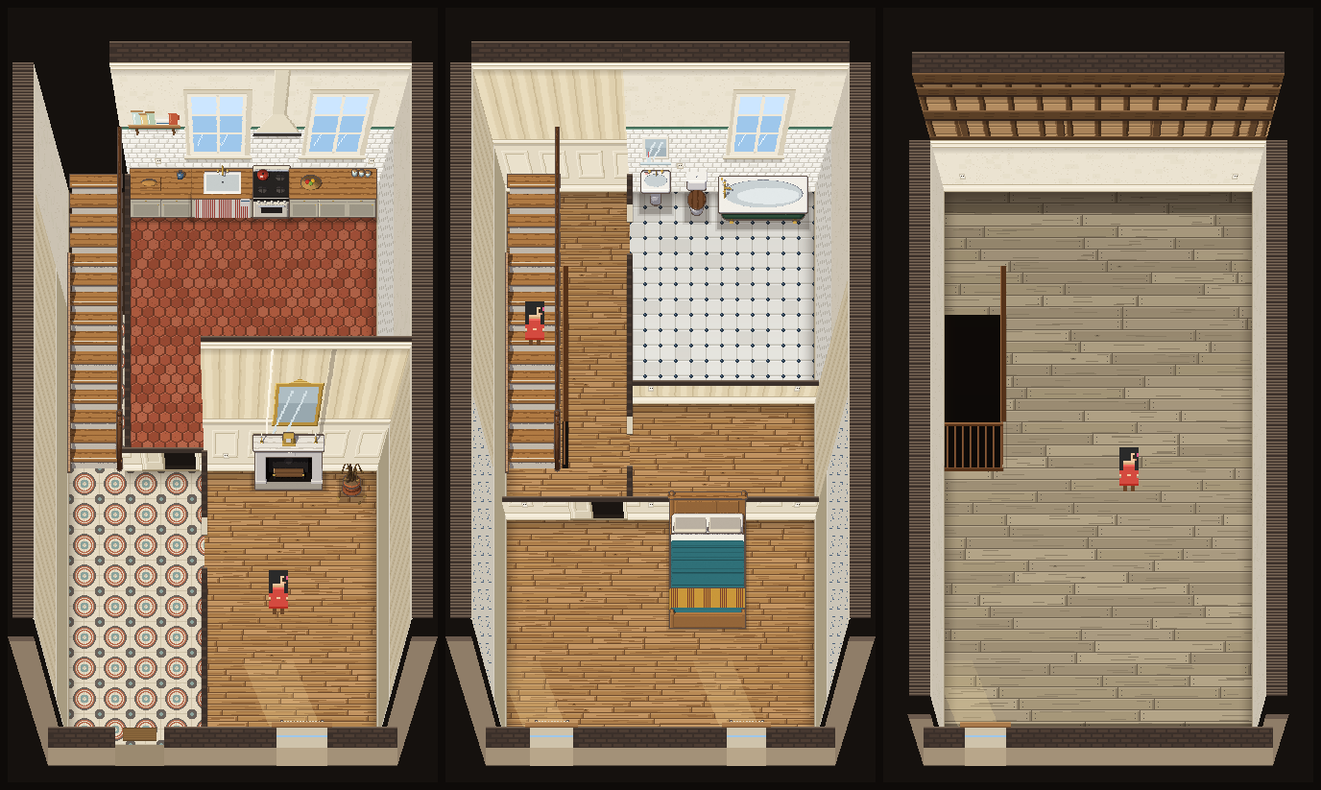
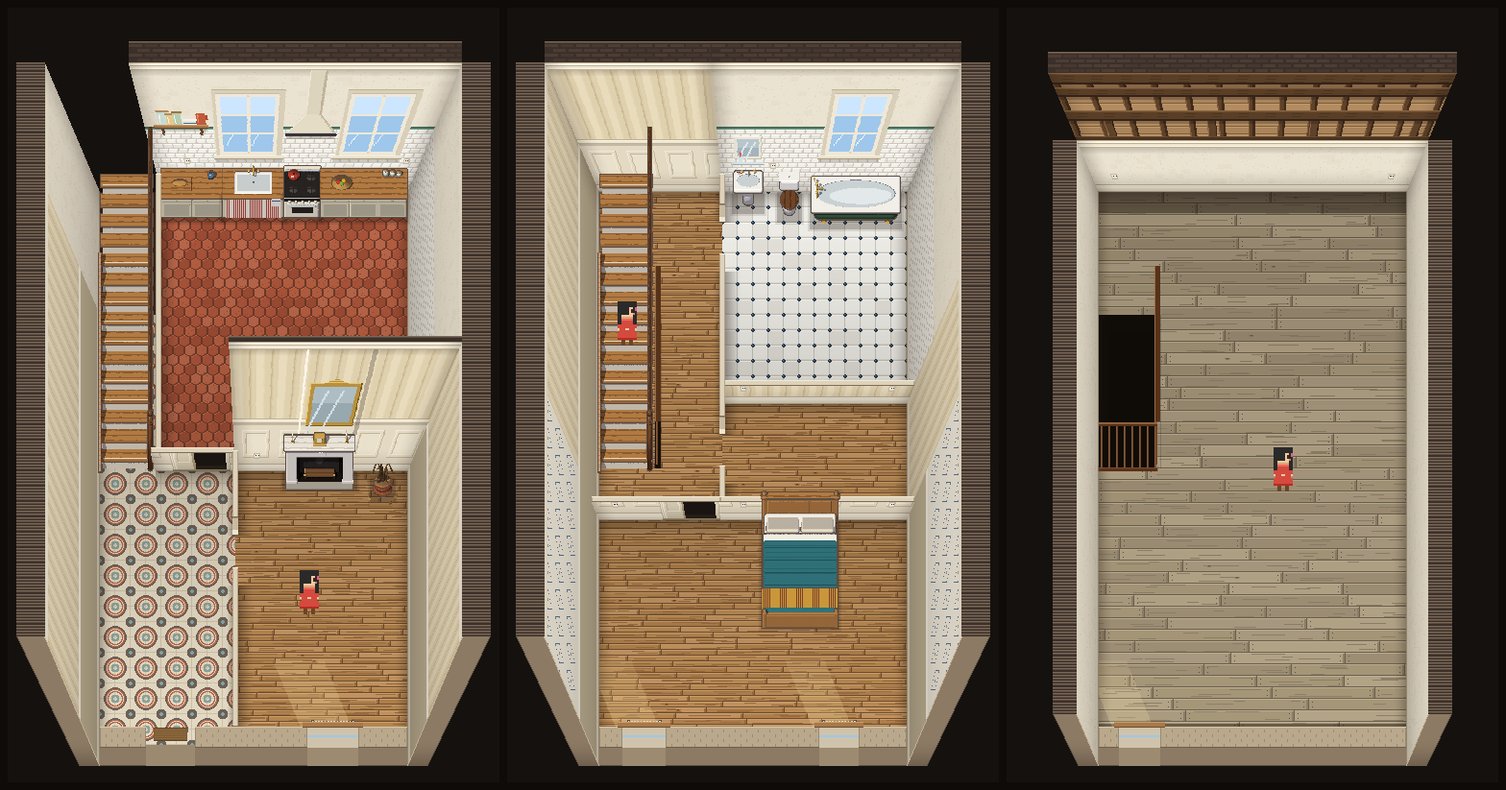
1 1 1

diff --git a/components/ferme/maisonArt.js b/components/ferme/maisonArt.js
@@ -450,6 +450,30 @@ export function paintWallTop(ctx, x, y, w, h) {
   }
 }
 
+/* ╔════════════════════════════════════════════════════════════════════════
+   ║ 2026-10-18 — « LES CLOISONS EN VOLUME » : L'ARASE D'UN MUR COUPÉ EST ÉCLAIRÉE.
+   ╚════════════════════════════════════════════════════════════════════════
+   Vu en jeu : une cloison coupée à 35 cm se lisait comme un trait sombre sur le
+   sol — son arase avait la couleur de celle des murs pleins (`paintWallTop`, un
+   brun presque noir), celle du vide autour de la maison et des portes ouvertes.
+   Or c'est un DESSUS, à 35 cm du sol de la pièce : dans la lumière des meubles
+   (`tools/blender/studio.py`, quatre paliers), le dessus est le plus clair (1),
+   la face vient après (0,88). Une arase claire et cernée, une tranche un ton plus
+   bas : le mur a une épaisseur et une hauteur. L'arase des murs PLEINS reste
+   sombre — elle touche le plafond, c'est la coupe sous lui, hors du jour.
+   `ext` : la pierre de la façade (même règle, plus grise). */
+export function paintCutTop(ctx, x, y, w, h, ext) {
+  const P = ext ? ["#b9a88c", "#d6c8ab", "#6e604e", "#9a8a72"] : ["#ded2bb", "#f1e9d6", "#7d6c58", "#b3a38b"];
+  rect(ctx, x, y, w, h, P[0]);
+  if (ext && h > 6) for (let k = 3; k < h - 2; k += 5) {
+    const dec = (Math.floor(k / 5) % 2) ? 6 : 0;
+    for (let i = x + dec; i < x + w - 1; i += 12) rect(ctx, i, y + k, 1, 3, P[3]);
+  }
+  if (w > 2) { rect(ctx, x, y, 1, h, P[3]); rect(ctx, x + w - 1, y, 1, h, P[3]); }
+  rect(ctx, x, y, w, 1, P[1]);
+  if (h > 2) rect(ctx, x, y + h - 1, w, 1, P[2]);
+}
+
 /* LA FLAQUE DE SOLEIL : la lumière d'une fenêtre de façade (au sud) posée sur
    le sol de la pièce, déportée vers l'est l'après-midi — un parallélogramme
    chaud, peint rangée par rangée. `force` 0 à 1 (l'heure la règlera). */
@@ -664,7 +688,11 @@ export function paintConduit(ctx, x0, x1, yFoot, hPx, tablette = 1.08, bas = 1.2
 // ─── la cuisson d'un niveau ──────────────────────────────────────────────
 /* Le repère des images cuites : le coin (HOME_FX0, HOME_FY0) du plan, en cases,
    est le pixel (0, 0). Assez de marge au nord pour les faces des murs du fond. */
-export const HOME_FX0 = -1.0, HOME_FY0 = -3.0;   // −1 en x : la place des murs latéraux évasés
+/* 2026-10-18 — −1 → −1,5 en x avec l'évasement à 0,17 (`HOME_FLARE`) : l'arase du mur latéral, à son bord extérieur, tombe à
+   1,36 case du nu intérieur (0,17 × 2,84 cases du centre × 2,11 cases de mur + 0,34 d'épaisseur) ; à −1 elle sortait de
+   l'image cuite (un canevas découpe en silence, noyau §4). `maison.HOME_OX` recule d'autant (l'origine reste sur une case
+   entière du monde, la maison tient dans ses 8 cases : `verify-maison` §1). */
+export const HOME_FX0 = -1.5, HOME_FY0 = -3.0;   // −1,5 en x : la place des murs latéraux évasés
 /* ╔════════════════════════════════════════════════════════════════════════
    ║ 2026-10-16 (soir) — LA PROFONDEUR : LES MURS ÉVASÉS (« une vraie idée de
    ║ profondeur, perspective plus lisible entre les murs et le sol » — Guillaume).
@@ -677,11 +705,18 @@ export const HOME_FX0 = -1.0, HOME_FY0 = -3.0;   // −1 en x : la place des mur
    le haut pour les rejoindre : une boîte ouverte sur l'avant. ⚠ ÉVASÉS, ILS
    TOMBENT HORS DU SOL À L'ÉCRAN : ils ne cachent jamais ni meuble ni personne.
    Le sol, la collision, les meubles et les personnages ne bougent pas. */
-export const HOME_FLARE = 0.11;
+/* 2026-10-18 — 0,11 → 0,17, choisi par Guillaume sur maquette en jeu (0,11 / 0,17 / 0,24 côte à côte, meubles contre les
+   murs) : la pièce se creuse sans l'effet couloir de 0,24. ⚠ Les meubles ne s'évasent pas : un meuble haut contre un mur de
+   côté s'en écarte un peu vers le haut (≈ 9 px à 1 m) — vu, accepté avec la valeur. */
+export const HOME_FLARE = 0.17;
 const flarePx = (lx, zPx, xc) => HOME_FLARE * (lx - xc) * zPx;
 export const homePx = (lx, ly) => [Math.round((lx - HOME_FX0) * MPX), Math.round((ly - HOME_FY0) * MPX)];
 export const HOME_VOID = "#15110e";
 export const HOME_CUT = pxOfM(0.35);          // la coupe des murs bas : 35 cm (19 px ; 10 à 32 px par case)
+/* 2026-10-18 — LA PIERRE DE LA FAÇADE VUE DE FACE (sa tranche coupée, le pilier d'angle) : un ton sous l'arase éclairée
+   (`paintCutTop`) — le dessus clair, la face plus sombre, c'est ce qui fait lire une épaisseur. À #a39178, à peine plus
+   sombre que l'arase, la façade coupée se lisait comme une bande plate (vu au banc, même jour). */
+const PIERRE_FACE = "#8c7a64";
 
 const SOLS = {
   parquet: paintParquet, ciment: paintCiment, tomettes: paintTomettes, carreaux: paintCabochons,
@@ -723,15 +758,38 @@ export function bakeHomeFloor(mk, plan, L, H) {
     const [x0, y0] = homePx(0, 0), [x1, y1] = homePx(plan.w, plan.d);
     const NL = pxOfM(0.26);
     for (let k = 0; k < NL; k++) { const al = 0.26 * (1 - k / NL) ** 1.6; ombre(x0 + k, y0, 1, y1 - y0, al); ombre(x1 - 1 - k, y0, 1, y1 - y0, al); }
-    // le fond de la pièce s'assombrit un peu : la lumière vient de la façade
-    for (let k = 0; k < y1 - y0; k++) { const t = 1 - k / (y1 - y0); if (t > 0.45) ombre(x0, y0 + k, x1 - x0, 1, 0.10 * (t - 0.45) / 0.55); }
+  }
+  /* 2026-10-18 — « LA LUMIÈRE DE PROFONDEUR », PIÈCE PAR PIÈCE (remplace un dégradé unique sur toute la maison, « la
+     lumière vient de la façade » — faux pour la cuisine, dont les fenêtres sont au fond) : chaque pièce s'assombrit en
+     s'éloignant du côté par où le jour entre — la façade (au sud : ses fenêtres, sa porte, et le côté ouvert de la
+     coupe) si elle la touche, ses fenêtres du fond (au nord) si elle en a. Les deux : le milieu, un peu. Aucun : un
+     voile égal. Jusqu'à 0,16 au plus loin. */
+  {
+    const faces = H.homeFaces(plan, L);
+    for (const p of lv.pieces) {
+      const bx0 = Math.min(...p.rects.map((r) => r[1])), bx1 = Math.max(...p.rects.map((r) => r[3]));
+      const sud = bx1 >= plan.d - 0.01;
+      const nord = faces.some((f) => f.room === p.id && (f.fenetres || []).length > 0);
+      const al = (t) => sud && nord ? 0.08 * 4 * t * (1 - t) : sud ? 0.16 * (1 - t) ** 1.4 : nord ? 0.16 * t ** 1.4 : 0.08;
+      for (const [rx0, ry0, rx1, ry1] of p.rects) {
+        const [a, b] = homePx(rx0, ry0), [cc, d] = homePx(rx1, ry1);
+        const [, B0] = homePx(0, bx0), [, B1] = homePx(0, bx1);
+        for (let yy = b; yy < d; yy += 2) ombre(a, yy, cc - a, Math.min(2, d - yy), al((yy - B0) / Math.max(1, B1 - B0)));
+      }
+    }
   }
   g.globalAlpha = 1;
   paintSideFaces(g, plan, L, H);
   for (const lw of H.homeLows(plan, L, null)) {
     if (lw.kind === "facade") continue;
     const [a, b] = homePx(lw.rect[0], lw.rect[1]), [cc, d] = homePx(lw.rect[2], lw.rect[3]);
-    g.globalAlpha = 0.20; rect(g, a - 1, b, 1, d - b, "#20160f"); rect(g, cc, b, 1, d - b, "#20160f");
+    if (lw.kind !== "mur") { g.globalAlpha = 0.20; rect(g, a - 1, b, 1, d - b, "#20160f"); rect(g, cc, b, 1, d - b, "#20160f"); continue; }
+    /* 2026-10-18 — « les cloisons en volume » : un mur coupé à 35 cm assombrit le sol de chaque côté ; c'est ce qui le
+       pose debout sur le sol au lieu d'un trait. Plus long à l'EST (30 cm) qu'à l'ouest (12 cm) : la lumière des meubles
+       vient de la gauche (`studio.py`, SUN_DIR), l'ombre portée d'un muret tombe à sa droite. */
+    const NW = pxOfM(0.12), NE = pxOfM(0.30);
+    for (let k = 0; k < NW; k++) ombre(a - 1 - k, b, 1, d - b, 0.24 * (1 - k / NW) ** 1.6);
+    for (let k = 0; k < NE; k++) ombre(cc + k, b, 1, d - b, 0.36 * (1 - k / NE) ** 1.4);
   }
   g.globalAlpha = 1;
   return c;
@@ -764,6 +822,20 @@ export function bakeHomeFace(mk, plan, L, f) {
     if (pb - pa > pxOfM(0.2)) glass.push(paintWallWindow(g, pa, Hh, pb - pa, piece.fenetre && piece.fenetre.allege, piece.fenetre && piece.fenetre.haut));
   }
   paintWallDetails(g, plan, L, f, Hh, wallPx);
+  /* 2026-10-18 — « LA LUMIÈRE DE PROFONDEUR » : le pied du mur s'assombrit (0,22 contre la plinthe, rien à 45 cm), et
+     ses ANGLES aussi (0,20 sur 35 cm, `f.coinW`/`f.coinE` de `homeFaces`) — l'ombre qu'une pièce garde dans ses coins,
+     qui dit où le mur du fond rencontre les murs de côté. Le verre des fenêtres se peint par-dessus, à chaque image. */
+  {
+    const NB = pxOfM(0.45), NA = pxOfM(0.35);
+    g.fillStyle = "#20160f";
+    for (let k = 0; k < NB; k++) { g.globalAlpha = 0.22 * (1 - k / NB) ** 1.5; g.fillRect(0, Hh - 1 - k, W, 1); }
+    for (let k = 0; k < NA; k++) {
+      g.globalAlpha = 0.20 * (1 - k / NA) ** 1.5;
+      if (f.coinW) g.fillRect(k, capPx, 1, Hh - capPx);
+      if (f.coinE) g.fillRect(W - 1 - k, capPx, 1, Hh - capPx);
+    }
+    g.globalAlpha = 1;
+  }
   paintWallTop(g, 0, 0, W, capPx);
   /* 2026-10-17 — LA FACE ÉVASÉE, CUITE UNE FOIS. Une face pleine se dessinait rangée par
      rangée à chaque image (l'évasement, `HOME_FLARE`) : à 64 px par case, ~150 `drawImage`
@@ -819,8 +891,11 @@ function paintWallDetails(g, plan, L, f, Hh, wallPx) {
 export function drawLowWall(ctx, x0, y0, x1, y1, ext) {
   const [a, b] = homePx(x0, y0), [c, d] = homePx(x1, y1);
   const w = Math.max(1, c - a);
-  paintWallTop(ctx, a, b - HOME_CUT, w, d - b);
-  rect(ctx, a, d - HOME_CUT, w, HOME_CUT, ext ? "#8f7d68" : "#d9cfb9");
+  // 2026-10-18 : l'arase claire (`paintCutTop`), la tranche un ton plus bas, sa plinthe, et un trait d'ombre à son pied.
+  paintCutTop(ctx, a, b - HOME_CUT, w, d - b, ext);
+  rect(ctx, a, d - HOME_CUT, w, HOME_CUT, ext ? PIERRE_FACE : "#c8bba2");
+  rect(ctx, a, d - HOME_CUT, w, 1, ext ? "#8a7a64" : "#9c8e77");
+  rect(ctx, a, d - pxOfM(0.12), w, pxOfM(0.12), PLINTHE.fond);
   rect(ctx, a, d - 1, w, 1, "#5e5244");
 }
 /* UN GARDE-CORPS à claire-voie (90 cm) : une main courante de noyer posée sur
@@ -853,19 +928,22 @@ export function drawFacadeCut(ctx, plan, lw, ciel) {
   const seg = (a, b) => {
     const [pa, pb] = homePx(a, y0), [pc, pd] = homePx(b, y1);
     if (pc - pa <= 0) return;
-    paintWallTop(ctx, pa, pb - HOME_CUT, pc - pa, pd - pb);
-    rect(ctx, pa, pd - HOME_CUT, pc - pa, HOME_CUT, "#a39178");
+    paintCutTop(ctx, pa, pb - HOME_CUT, pc - pa, pd - pb, true);   // 2026-10-18 : l'arase de pierre éclairée
+    rect(ctx, pa, pd - HOME_CUT, pc - pa, HOME_CUT, PIERRE_FACE);
     rect(ctx, pa, pd - 1, pc - pa, 1, "#5e5244");
   };
+  /* ⚠ 2026-10-18 — la coupe s'arrête aux NUS INTÉRIEURS des murs latéraux : leurs blocs d'angle (de −EP_EXT à 0, de w à
+     w + EP_EXT) appartiennent aux murs DEBOUT ; coupée à 35 cm par-dessus, la façade mangeait le pied du pilier d'angle. */
+  cur = Math.max(x0, 0);
   for (const [a, b] of trous) { seg(cur, a); cur = b; }
-  seg(cur, x1);
+  seg(cur, Math.min(x1, plan.w));
   for (const [a, b] of lw.fenetres) {
     const [pa, pb] = homePx(a, y0), [pc, pd] = homePx(b, y1);
     rect(ctx, pa, pb - HOME_CUT, pc - pa, pd - pb, "#cfc3ab");
     rect(ctx, pa, pb - HOME_CUT, pc - pa, 1, "#e9e1cf");
     const c = (k, s) => Math.round(255 * Math.min(1, ciel[k] * s));
     rect(ctx, pa, pb - HOME_CUT + 9, pc - pa, 2, `rgb(${c(0, 0.62)},${c(1, 0.78)},${c(2, 0.92)})`);
-    rect(ctx, pa, pd - HOME_CUT, pc - pa, HOME_CUT, "#b8a68a");
+    rect(ctx, pa, pd - HOME_CUT, pc - pa, HOME_CUT, "#9c8a71");
     // 2026-10-17 — l'APPUI côté pièce : une tablette de chêne ciré qui déborde du mur
     rect(ctx, pa - 5, pb - HOME_CUT - 5, pc - pa + 10, 6, "#a8794a");
     rect(ctx, pa - 5, pb - HOME_CUT - 5, pc - pa + 10, 1, "#c99c68");
@@ -972,7 +1050,12 @@ export function homeDrawItems(plan, L, o) {
       }
       if (top > 0) {
         const a = px + Math.round(flarePx(f.x0, v, xc)), b = px + bake.W + Math.round(flarePx(f.x1, v, xc));
-        paintWallTop(ctx, a, py - v - bake.capPx, b - a, bake.capPx);
+        /* 2026-10-18 : coupée, l'arase est claire (`paintCutTop`) ; PENDANT la coupe (le mur descend ou remonte en
+           fondu), le clair se mêle au sombre selon la hauteur — sinon l'arase changerait de couleur d'un coup à
+           l'arrivée en haut (noyau §4 : une transition qui se voit se fait par une durée, jamais par un seuil). */
+        const k = Math.max(0, Math.min(1, (vis - HOME_CUT) / Math.max(1, bake.wallPx - HOME_CUT)));
+        if (k > 0) paintWallTop(ctx, a, py - v - bake.capPx, b - a, bake.capPx);
+        if (k < 1) { ctx.globalAlpha = 1 - k; paintCutTop(ctx, a, py - v - bake.capPx, b - a, bake.capPx, f.ext); ctx.globalAlpha = 1; }
       }
     } });
   }
@@ -1030,22 +1113,34 @@ export function homeDrawItems(plan, L, o) {
    intérieure du mur ouest se voit à gauche du sol, celle du mur est à droite :
    chaque colonne de pixels y est UNE HAUTEUR du mur (la plinthe contre le sol,
    la corniche au bord extérieur), et le long de la colonne court la longueur du
-   mur — le papier de la pièce qui le borde, tronçon par tronçon. Puis l'arase. */
+   mur — le papier de la pièce qui le borde, tronçon par tronçon. Puis l'arase.
+   ⚠ 2026-10-18 — « LES COINS DE FAÇADE » (vu en jeu : le mur latéral paraissait
+   plié au coin) : la face courait jusqu'au NU INTÉRIEUR de la façade (y = d), et le
+   pilier d'angle se tient à son nu EXTÉRIEUR (d + EP_EXT) ; au-dessus de la façade
+   coupée, les 40 cm de face entre les deux manquaient — un coin de vide entre le
+   mur et son pilier, et une arase qui s'arrêtait 40 cm trop tôt. La face et l'arase
+   vont maintenant jusqu'au nu extérieur (le bas, sous la coupe de 35 cm, est
+   recouvert par la façade coupée), et l'arase a la largeur ÉVASÉE du mur (son bord
+   extérieur s'écarte plus que l'intérieur), celle du pilier qu'elle coiffe.
+   2026-10-18 — « LA LUMIÈRE DE PROFONDEUR » : la face s'assombrit vers le sol (le
+   pied d'un mur reçoit moins de jour que son haut) et vers l'angle du fond. */
 export function paintSideFaces(g, plan, L, H) {
-  const lv = plan.niveaux[L], xc = plan.w / 2;
+  const lv = plan.niveaux[L], xc = plan.w / 2, e = H.EP_EXT, yEnd = plan.d + e;
   const hPx = lv.pente ? pxOfM(1.0) : pxOfM(lv.mur);
-  const capPx = Math.round(0.34 * MPX);
   for (const cote of ["W", "E"]) {
-    const xw = cote === "W" ? 0 : plan.w, sg = cote === "W" ? -1 : 1;
+    const xw = cote === "W" ? 0 : plan.w, xo = cote === "W" ? -e : plan.w + e;
     const L0 = Math.abs(flarePx(xw, hPx, xc));
     const [bx] = homePx(xw, 0);
+    // l'arase : le dessus du mur (de xw à xo) à sa pleine hauteur, évasé comme lui
+    const ai = bx + Math.round(flarePx(xw, hPx, xc)), ao = homePx(xo, 0)[0] + Math.round(flarePx(xo, hPx, xc));
     // les tronçons : la pièce qui borde le mur, tous les 5 cm
-    for (let y = 0; y < plan.d; y += 0.05) {
-      const pc = H.homeRoomAt(plan, L, cote === "W" ? 0.05 : plan.w - 0.05, y + 0.025);
+    for (let y = 0; y < yEnd - 1e-6; y += 0.05) {
+      const pc = H.homeRoomAt(plan, L, cote === "W" ? 0.05 : plan.w - 0.05, Math.min(y + 0.025, plan.d - 0.025));
       const deco = pc ? pc.murs : { papier: "platre", lambris: null };
       const papier = PAPIERS[deco.papier] || PAPIERS.platre;
       const lam = deco.lambris === "faience" ? "faience" : deco.lambris ? (LAMBRIS[deco.lambris] || LAMBRIS.sauge) : null;
-      const [, py0] = homePx(xw, y), [, py1] = homePx(xw, y + 0.05);
+      const [, py0] = homePx(xw, y), [, py1] = homePx(xw, Math.min(yEnd, y + 0.05));
+      if (py1 <= py0) continue;
       for (let c = 0; c < L0; c++) {
         const zc = Math.min(hPx - 1, (c + 0.5) / (HOME_FLARE * Math.abs(xw - xc)));
         let col;
@@ -1062,16 +1157,16 @@ export function paintSideFaces(g, plan, L, H) {
           rect(g, x, yy - z, 1, 1, cc);
         }
       }
-      // l'ombre de l'angle : la face est un peu plus sombre que le mur du fond (elle reçoit la lumière de biais)
-      g.globalAlpha = 0.16;
+      /* L'OMBRE : la face reçoit le jour de biais (0,10 en haut), son pied moins encore (0,30 contre la plinthe),
+         et l'angle du fond s'enfonce (jusqu'à +0,14 sur les 70 premiers cm). */
+      const coin = y < 0.6 ? 0.14 * (1 - y / 0.6) ** 1.5 : 0;
       for (let c = 0; c < L0; c++) {
         const zc = Math.round((c + 0.5) / (HOME_FLARE * Math.abs(xw - xc)));
+        g.globalAlpha = Math.min(0.5, 0.10 + 0.20 * (1 - Math.min(1, zc / hPx)) ** 2 + coin);
         rect(g, cote === "W" ? bx - 1 - c : bx + c, py0 - zc, 1, py1 - py0, "#20160f");
       }
       g.globalAlpha = 1;
-      // l'arase, au sommet évasé
-      const ax = cote === "W" ? bx - Math.round(L0) - capPx : bx + Math.round(L0);
-      paintWallTop(g, ax, py0 - hPx, capPx, py1 - py0);
+      paintWallTop(g, Math.min(ai, ao), py0 - hPx, Math.abs(ao - ai), py1 - py0);
     }
   }
 }
@@ -1082,9 +1177,16 @@ export function drawCornerPillar(ctx, plan, lw, L) {
   const hPx = lv.pente ? pxOfM(1.0) : pxOfM(lv.mur);
   const [x0, , x1, y1] = lw.rect;
   const [pa] = homePx(x0, 0), [pb, py] = homePx(x1, y1);
+  /* 2026-10-18 — la pierre de la tranche, comme celle de la façade coupée (`drawFacadeCut`, `PIERRE_FACE`) : c'est le même
+     mur vu du même côté. Son pied s'assombrit (le jour d'en haut), son bord extérieur est un trait, et l'arase évasée
+     (`paintSideFaces`) la coiffe désormais sans vide entre les deux. */
+  const out = x0 < 0 ? "a" : "b";
   for (let z = 0; z < hPx; z++) {
     const a = pa + Math.round(flarePx(x0, z, xc)), b = pb + Math.round(flarePx(x1, z, xc));
-    rect(ctx, a, py - 1 - z, b - a, 1, z > hPx - 6 ? "#6b5a4d" : "#8f7d68");
+    rect(ctx, a, py - 1 - z, b - a, 1, PIERRE_FACE);
+    if (z < pxOfM(0.5)) { ctx.globalAlpha = 0.26 * (1 - z / pxOfM(0.5)) ** 1.5; rect(ctx, a, py - 1 - z, b - a, 1, "#20160f"); ctx.globalAlpha = 1; }
+    rect(ctx, out === "a" ? a : b - 1, py - 1 - z, 1, 1, "#5e5244");
+    rect(ctx, out === "a" ? b - 1 : a, py - 1 - z, 1, 1, "#bfae92");
   }
 }
 

diff --git a/components/ferme/maison.js b/components/ferme/maison.js
@@ -79,7 +79,7 @@ export const HOME_LEVEL_H = 14 * HOME_K;  // par niveau : 14 cases du plan (9 de
    et −3 cases du plan) TOMBE SUR UNE CASE ENTIÈRE DU MONDE : posées au cran 2
    ou 4, elles tombent alors sur des pixels d'écran entiers — à 1,5, l'origine
    arrivait à 57,6 px au cran 4. */
-export const HOME_OX = 2.0 * HOME_K;   // 2026-10-16 (soir) : 1,6 → 2,0 avec la marge des murs évasés (`maisonArt.HOME_FX0` −1)
+export const HOME_OX = 1.5 * HOME_K;   // 2026-10-16 (soir) : 1,6 → 2,0 avec la marge des murs évasés (`maisonArt.HOME_FX0` −1) ; 2026-10-18 : 2,0 → 1,5 avec FX0 à −1,5 (évasement 0,17) — l'origine cuite tombe à 0, la maison tient dans HOME_SLOT_W
 export const HOME_OY = 4.0 * HOME_K;
 export const homeSlotOf = (x) => Math.floor(x / HOME_SLOT_W);
 export const homeLevelOf = (y) => Math.floor(y / HOME_LEVEL_H);
@@ -374,14 +374,15 @@ export function homeCadreRects(plan, L, key) {
 }
 /* L'ENVELOPPE d'un cadre, en cases du plan : de quoi voir ses murs entiers — la
    face du fond monte de la hauteur du mur (2,11 cases), les murs latéraux
-   évasés débordent de 0,6 case, la coupe du devant et les pieds du personnage
-   demandent un peu de marge. Rend [x0, y0, x1, y1]. */
+   évasés débordent (1,0 case montrée depuis l'évasement à 0,17 du 2026-10-18 :
+   0,65 à 0,11 — la face entière, l'arase à demi), la coupe du devant et les pieds
+   du personnage demandent un peu de marge. Rend [x0, y0, x1, y1]. */
 export function homeCadreBox(plan, L, key) {
   const rs = homeCadreRects(plan, L, key), lv = plan.niveaux[L];
   let x0 = Infinity, y0 = Infinity, x1 = -Infinity, y1 = -Infinity;
   for (const [a, b, c, d] of rs) { x0 = Math.min(x0, a); y0 = Math.min(y0, b); x1 = Math.max(x1, c); y1 = Math.max(y1, d); }
   const mur = (lv.pente ? 2.3 : lv.mur) / CASE_M;                    // la hauteur du mur du fond, en cases
-  return [x0 - (x0 <= 0.01 ? 0.65 : 0.30), y0 - mur - 0.35, x1 + (x1 >= plan.w - 0.01 ? 0.65 : 0.30), y1 + (y1 >= plan.d - 0.01 ? 0.60 : 0.45)];
+  return [x0 - (x0 <= 0.01 ? 1.0 : 0.30), y0 - mur - 0.35, x1 + (x1 >= plan.w - 0.01 ? 1.0 : 0.30), y1 + (y1 >= plan.d - 0.01 ? 0.60 : 0.45)];
 }
 /* Distance (cases) d'un point à la réunion de rectangles : 0 dedans. */
 export function homeDistToRects(rs, lx, ly) {
@@ -604,6 +605,13 @@ export function homeFaces(plan, L) {
     out.splice(i, 1);
   }
   out.forEach((f, i) => { f.id = L + ":" + i; f.y = Math.round(f.y * 1000) / 1000; });
+  /* 2026-10-18 — LES ANGLES d'une face (dessin seulement : l'ombre d'angle de `maisonArt.bakeHomeFace`). Un bout de face
+     est un angle de la pièce, sauf quand la même pièce continue sur la même ligne (le tronçon voisin ne diffère que par
+     la pièce au NORD : une cloison qui arrive de l'autre côté du mur n'est pas un angle pour la pièce d'ici). */
+  for (const f of out) {
+    const suite = (x) => out.some((g) => g !== f && Math.abs(g.y - f.y) < 1e-6 && g.room === f.room && (Math.abs(g.x1 - x) < 1e-6 || Math.abs(g.x0 - x) < 1e-6));
+    f.coinW = !suite(f.x0); f.coinE = !suite(f.x1);
+  }
   faceMemo.set(key, out);
   return out;
 }

diff --git a/components/ferme/README.md b/components/ferme/README.md
@@ -1,5 +1,35 @@
 # Valley Town, le tribunal, l'hôtel de ville, et la vie qui s'y passe — état au 2026-10-03
 
+## 2026-10-18 — CHEZ SOI : LA PERSPECTIVE (COINS DE FAÇADE, CLOISONS EN VOLUME, LUMIÈRE DE PROFONDEUR, ÉVASEMENT À 0,17)
+
+Sa demande : « meilleure perspective impression 3D dans l'intérieur », puis « vérifie en jeu et juge », puis, sur le jugement, « fais 1, 2 et 3
+(coins de façade, cloisons en volume, lumière de profondeur), vérifie en jeu, puis montre-moi avant de toucher à l'évasement ».
+**Supabase : rien** (dessin cuit seulement ; aucun état, aucun champ réseau).
+- **Le jugement en jeu (avant)** : trois défauts cassaient la boîte. (1) **Les coins de façade** : la face intérieure des murs latéraux s'arrêtait au nu
+  INTÉRIEUR de la façade, le pilier d'angle se tient à son nu EXTÉRIEUR — 40 cm de vide entre les deux au-dessus de la coupe, et une arase qui s'arrêtait
+  trop tôt : le mur paraissait plié au coin. La façade coupée à 35 cm passait en plus PAR-DESSUS le pied du pilier (sa coupe allait de −EP_EXT à w + EP_EXT).
+  (2) **Les cloisons coupées** se lisaient comme un trait sombre : leur arase avait la couleur de celle des murs pleins (`paintWallTop`, brun presque noir), la
+  même que le vide et les portes ouvertes. (3) **Aucune lumière ne disait la profondeur** hors un dégradé unique sur toute la maison, « la lumière vient de la
+  façade » — faux pour la cuisine, dont les fenêtres sont au fond.
+- **Fait** (`maisonArt.js`, `maison.js` pour les angles) : (1) `paintSideFaces` court jusqu'à `d + EP_EXT`, l'arase a la largeur ÉVASÉE du mur (le bord extérieur
+  s'écarte plus) et coiffe le pilier ; `drawFacadeCut` s'arrête aux nus intérieurs ; le pilier prend la pierre de la façade vue de face (`PIERRE_FACE`), un pied
+  assombri. (2) `paintCutTop` : l'arase d'un mur COUPÉ est claire et cernée (un dessus, à 35 cm : le plus clair des quatre paliers de `studio.py`), la tranche un
+  ton plus bas avec sa plinthe ; les cloisons nord-sud ombrent le sol (12 cm à l'ouest, 30 cm à l'est : la lumière des meubles vient de la gauche) ; l'arase des
+  faces coupées passe du sombre au clair EN FONDU avec la coupe (jamais par un seuil) ; la façade coupée prend la même règle (pierre claire dessus, `PIERRE_FACE`
+  devant). L'arase des murs PLEINS reste sombre (elle touche le plafond). (3) Le pied des faces s'assombrit (0,22 → 0 sur 45 cm), leurs ANGLES aussi (0,20 sur
+  35 cm, `homeFaces` pose `coinW`/`coinE` : un bout de face n'est un angle que si la même pièce ne continue pas sur la ligne) ; les faces latérales s'assombrissent
+  vers le sol (0,30 → 0,10) et vers l'angle du fond ; le dégradé de la maison est remplacé par un dégradé PAR PIÈCE (sombre en s'éloignant de la façade si elle la
+  touche, de ses fenêtres du fond si elle en a ; les deux : le milieu ; aucun : un voile de 0,08 ; 0,16 au plus).
+- **L'évasement, même jour, sur maquette** : 0,11 / 0,17 / 0,24 côte à côte en jeu, meubles contre les murs de côté (`tools/out/maison-evasement-{chambre,cuisine,sejour}.png`) ;
+  **0,17 choisi** (« pose 0,17 »). Ce qui va avec : `HOME_FX0` −1 → −1,5 (l'arase extérieure du mur latéral tombe à 1,36 case du nu intérieur ; à −1 elle sortait de
+  l'image cuite), `HOME_OX` 2,0 → 1,5 × K (origine cuite à 0, la maison tient dans ses 8 cases), `homeCadreBox` montre 1,0 case de mur latéral au lieu de 0,65.
+  Les meubles ne s'évasent pas : un meuble haut contre un mur de côté s'en écarte un peu vers le haut — vu sur la maquette, accepté avec la valeur. Vu en jeu à 0,17 :
+  entrée, séjour, cuisine, chambre, bains, plan entier, mode déco ; les crans de cadrage par pièce n'ont pas changé ; aucune erreur à la console
+  (`tools/out/maison-evasement-017-{chambre,entree}.png`).
+- **Vérifié** (après l'évasement aussi) : `verify-maison` 162/162, `verify-strings`, `verify-docs`, `render-maison` ; **en jeu** (`app/audit-tmp`, 1440 × 900, 14 h ; rez-de-chaussée : plan
+  entier, entrée, séjour, cuisine ; étage : chambre, bains), aucune erreur de dessin à la console. Preuves : `tools/out/perspective-avant-apres-{rdc,sejour,facade}.png`,
+  `tools/out/perspective-apres-bains.png`. **Pas vu** : la nuit, les combles en jeu (vus au banc seulement), iPad, deux clients, le mode déco.
+
 ## 2026-10-17 (après-midi) — CHEZ SOI : LES COTES D'USAGE À L'ÉCHELLE DU PERSONNAGE (TOUTE LA MAISON), MARCHE RALENTIE
 
 Ses deux messages : « la tête du player est en dessous des plans de travail et objets (cuisine), pareil salle de bain, pour une mise à l'échelle

diff --git a/CLAUDE.md b/CLAUDE.md
@@ -11,21 +11,20 @@ journal chronologique inversé : c'est de l'**histoire**, pas de l'orientation.
 
 ## ⏭ REPRISE — SI GUILLAUME DIT SEULEMENT « REPRENDS LE TRAVAIL », C'EST ICI
 
-### 2026-10-17 (après-midi) — CHEZ SOI : COTES D'USAGE À L'ÉCHELLE DU PERSONNAGE (TOUTE LA MAISON), MARCHE RALENTIE ; RIEN DE COMMITÉ
+### 2026-10-18 — CHEZ SOI : LA PERSPECTIVE ET L'ÉVASEMENT À 0,17 ; RIEN DE COMMITÉ
 
-**Intérieurs** (`docs/PROJETS.md` §6 ; récits : journaux du 2026-10-17 au README de la ferme). Sa demande : « la tête du player est en dessous des plans de travail et objets »
-(cuisine, bains, puis séjour, chambre, radiateurs) et « réduire un peu la vitesse dans la maison, pas sur les escaliers ». Faits : HAUTEURS d'usage ÷ `HOME_K` pour tous les
-sprites sauf tapis, tableau, escalier (`studio.ZK`, `meubles.ECHELLE_Z`, `maison.ECHELLE_Z_SPRITES` ; cheminée à ×0,65) et pour ce qui est peint ou posé dessus
-(`maison.ECHELLE_USAGE`, `homeBedPillow`) ; marche ×0,75 (`homeSpeedMul`), escalier inchangé (1,87 cases/s). Vu en jeu (cuisine, bains, séjour, chambre, dormeur), vitesses
-mesurées ; `verify-maison` 162/162 (§12), `verify-strings`, `verify-densite` verts. **Supabase : rien.** **Pas vu** : iPad, deux clients, le mode déco avec les nouveaux gabarits,
-la sauvegarde réelle (`docs/A-JUGER.md`). Tout meuble NEUF du catalogue (2b) : l'ajouter aux deux listes d'échelle.
+**Intérieurs** (`docs/PROJETS.md` §6 ; récit : journal du 2026-10-18 au README de la ferme). Faits, jugés en jeu : les murs latéraux et leur arase vont jusqu'au nu
+EXTÉRIEUR de la façade (le coin ne plie plus) ; `paintCutTop` (l'arase d'un mur COUPÉ est claire, celle d'un mur plein reste sombre) ; pieds et angles des murs
+assombris (`homeFaces` : `coinW`/`coinE`), lumière PAR PIÈCE ; `HOME_FLARE` 0,11 → 0,17 choisi sur maquette, avec `HOME_FX0` −1,5, `HOME_OX` 1,5 × K et 1,0 case
+de mur latéral dans `homeCadreBox` (l'évasement, la marge cuite, l'origine et le cadrage vont ENSEMBLE). `verify-maison` 162/162, `verify-strings`, `verify-docs`
+verts. **Supabase : rien.** **Pas vu** : la nuit, les combles en jeu, iPad, deux clients.
+Meuble NEUF (2b) : aux deux listes d'échelle (`meubles.ECHELLE_Z`, `maison.ECHELLE_Z_SPRITES`) ; Blender déterministe : ne commiter que les PNG changés au pixel.
 ⚠ `app/audit-tmp`, `app/audit-duo`, `app/audit-riders`, `app/api/audit-cap` : **à supprimer avant déploiement**. Pas corrigés (anciens) : potence de la
-trottinette en haut de paroi ; `f.injuredUntil | 0` ; `C.G_SOIL` ; `TOWN_SPEED_MULT` mort. Le rendu Blender en ligne de commande (`Blender -b -P
-tools/blender/rendre_meubles.py`) est déterministe : n'en commiter que les PNG qui changent au pixel (comparer à HEAD, remettre les autres).
+trottinette en haut de paroi ; `f.injuredUntil | 0` ; `C.G_SOIL` ; `TOWN_SPEED_MULT` mort.
 
 ### ⏭ ACTION SUIVANTE — LOT 2b : LE CATALOGUE (UN OBJET DANS L'ENTRÉE) ET LES CARTONS LIVRÉS LE LENDEMAIN (`docs/PROJETS.md` §6)
 
-Avant : les deux blocs en tête de `docs/A-JUGER.md` (hauteurs et marche ; cadrage, escalier, lit, bains). Puis le test iPad dès Xcode à jour (`docs/PROJETS.md` §3).
+Avant : le bloc en tête de `docs/A-JUGER.md` (perspective, évasement). Puis le test iPad dès Xcode à jour (`docs/PROJETS.md` §3).
 
 ## 🧭 ROUTEUR — QUOI LIRE SELON LA TÂCHE (2026-10-03)
 

diff --git a/docs/A-JUGER.md b/docs/A-JUGER.md
@@ -6,6 +6,15 @@
 
 ---
 
+### À juger — CHEZ SOI : LA PERSPECTIVE ET L'ÉVASEMENT À 0,17 (2026-10-18)
+
+Le lot (coins de façade, cloisons en volume, lumière de profondeur) t'allait sur images ; l'évasement 0,17 est choisi sur maquette. À voir en jouant :
+- **Les murs de côté plus larges** : la boîte se creuse ; à la longue, gênant ? Les meubles hauts contre un mur de côté (bibliothèque) s'en écartent un peu
+  vers le haut (ils ne s'évasent pas) : ça se remarque en jouant ?
+- **La façade coupée en pierre claire** (au lieu des briques sombres) : le devant reste-t-il assez « cadré » ? Revenir aux briques : une ligne.
+- **La lumière de profondeur** (0,16 au plus sur le sol) : assez marquée ?
+Pas vu : la nuit, les combles en jeu, iPad, deux clients.
+
 ### À juger — CHEZ SOI : LES HAUTEURS D'USAGE ET LA MARCHE (2026-10-17, après-midi)
 
 Entre chez toi, va à la cuisine puis à la salle de bain (étage), et colle-toi au plan, à l'évier, au lavabo, à la baignoire.

diff --git a/docs/PROJETS.md b/docs/PROJETS.md
@@ -239,6 +239,9 @@ cuisinière, lavabo, toilettes, baignoire ×½ en hauteur (Blender, `meubles.ECH
 échelle (`maison.ECHELLE_Z_SPRITES` ; tapis, tableau et escalier exceptés ; cheminée à ×0,65). Tout NOUVEAU meuble du catalogue (lot 2b) se rend à ×½ : l'ajouter aux
 deux listes (`verify-maison` §12 refuse l'oubli).
 
+**2026-10-18 — LA PERSPECTIVE, FAIT, à juger** (journal du README de la ferme) : coins de façade raccordés, cloisons coupées en volume (arase claire, ombre au
+sol), lumière de profondeur (pieds et angles des murs, dégradé par pièce), évasement 0,11 → 0,17 (choisi sur maquette en jeu).
+
 **Lot 2 — CADRÉ le 2026-10-16 (ses réponses, toutes sur les recommandations), RIEN DE CODÉ** :
 1. **Un mode déco**, chez soi seulement (touche ou bouton) : caméra figée, grille légère, un meuble se prend au clic, se tourne, se pose ; une
    palette en bas montre le GARDE-MEUBLE (ce qu'on possède et qui n'est pas posé).
